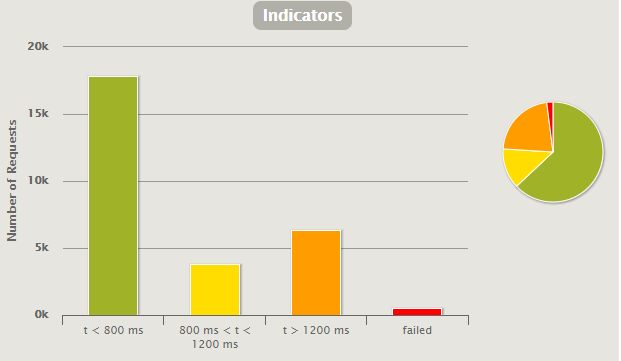
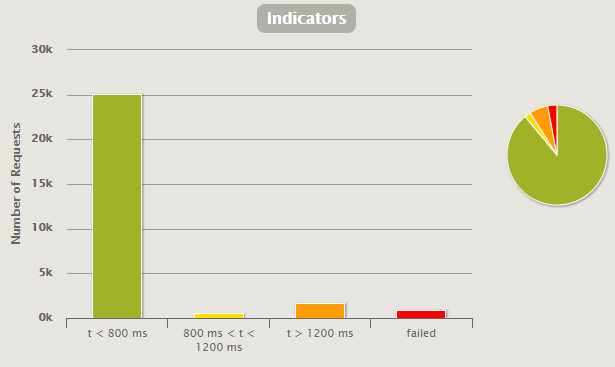
update chapter performance test

diff --git a/chapter/08_implementation.tex b/chapter/08_implementation.tex
@@ -307,6 +307,17 @@ Nachdem eine Klasse gewählt wurde, werden die klassenspezifischen Informationen
 Um sicherzustellen, dass nichtfunktionale Anforderungen wie die Response Time und die Scalability erfüllt werden, wurden Performance Tests durchgeführt. Dafür wurde das Tool Gatling \footcite{performance_tests} verwendet. Um so realitätsgetreu und dementsprechend auch sinnvoll wie möglich zu testen, wurden 300 Schüler, 20 Lehrer und 1 Administrator simuliert, welche die Applikation verwendeten. \\
 
 \textbf{Auswertung:} \\
+Insgesamt wurden über einen Zeitraum von 2 Minuten und 15 Sekunden 28'183 Requests abgesetzt. In der Abbildung \ref{Requests_Per_Second} ist ersichtlich, wie die Requests über den erwähnten Zeitverlauf verteilt absetzt wurden.
+
+\begin{minipage}{\textwidth}
+	\begin{figure}[H]
+		\includegraphics[width=\textwidth, height=\textheight, keepaspectratio]{images/performance_requests_per_second.png}
+		\caption{Anfragen pro Sekunde}
+	\end{figure}
+	\label{Requests_Per_Second}
+\end{minipage}
+
+Wie in der Abbildung \ref{Performance_Tests} ersichtlich ist, werden die gestellten Anforderungen nicht ganz erfüllt. Die Applikation kann zwar von 300 Schülern zeitgleich verwendet werden, jedoch wurde die erwünschte Response Time von unter einer Sekunde nicht durchgehend erreicht. Bei etwa 6\% der gesendeten Anfragen, benötigte die Applikation etwas mehr als eine Sekunde. Grund dafür ist unter anderem das Laden von Bibliotheken, wie zum Beispiel 'jquery-3.1.1.min.js' und 'bootstrap.min.css', welche für die Darstellung der Seite benötigt werden. Diese Bibliotheken wurden zwar statisch in die Applikation eingebunden, was die Performance bereits stark verbesserte, jedoch noch nicht ausreicht. 
 
 \begin{minipage}{\textwidth}
 	\begin{figure}[H]
@@ -316,7 +327,6 @@ Um sicherzustellen, dass nichtfunktionale Anforderungen wie die Response Time un
 	\label{Performance_Tests}
 \end{minipage}
 
-Wie in der Abbildung \ref{Performance_Tests} ersichtlich ist, werden die gestellten Anforderungen nicht ganz erfüllt. Die Applikation kann zwar von 300 Schülern zeitgleich verwendet werden, jedoch wurde die erwünschte Response Time von unter einer Sekunde nicht durchgehend erreicht. Bei etwa 22\% der gesendeten Anfragen, benötigte die Applikation etwas mehr als eine Sekunde. Grund dafür ist das Laden von Bibliotheken, wie zum Beispiel 'jquery-3.1.1.min.js' und 'bootstrap.min.css', welche für die Darstellung der Seite benötigt werden. Diese Bibliotheken wurden zwar statisch in die Applikation eingebunden, was die Performance bereits stark verbesserte, jedoch noch nicht ausreicht. 
 
 
 
